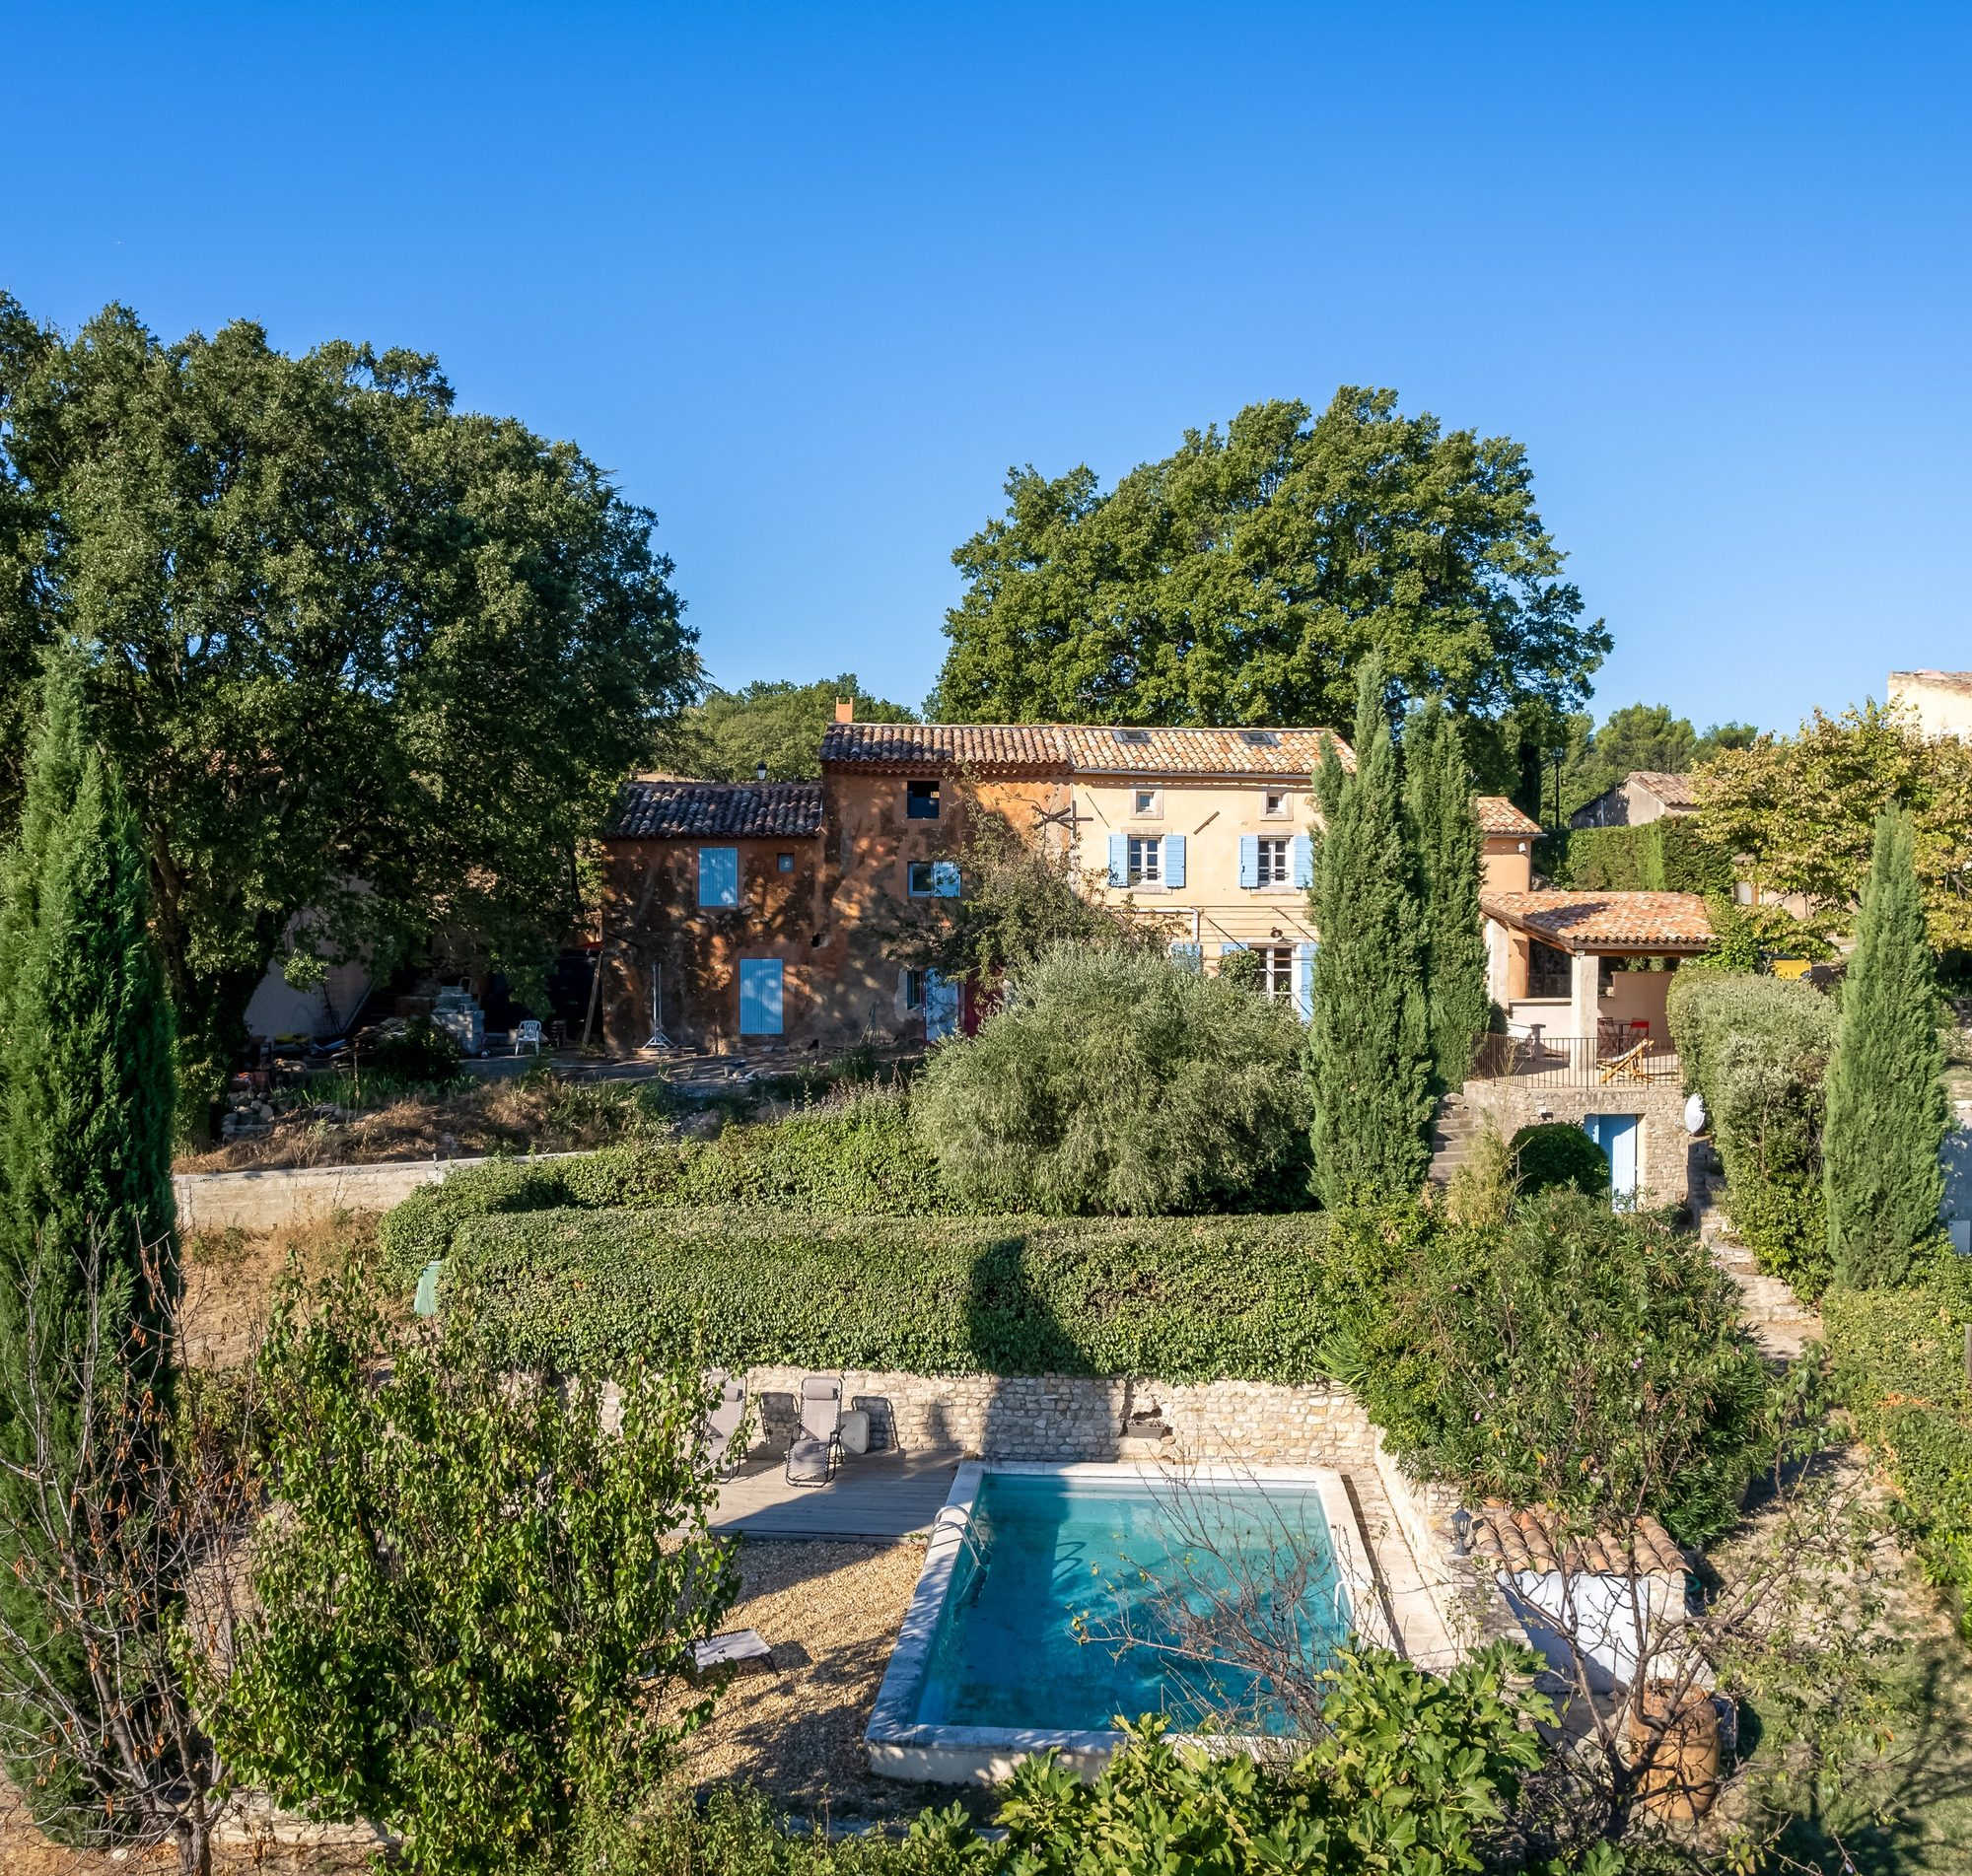
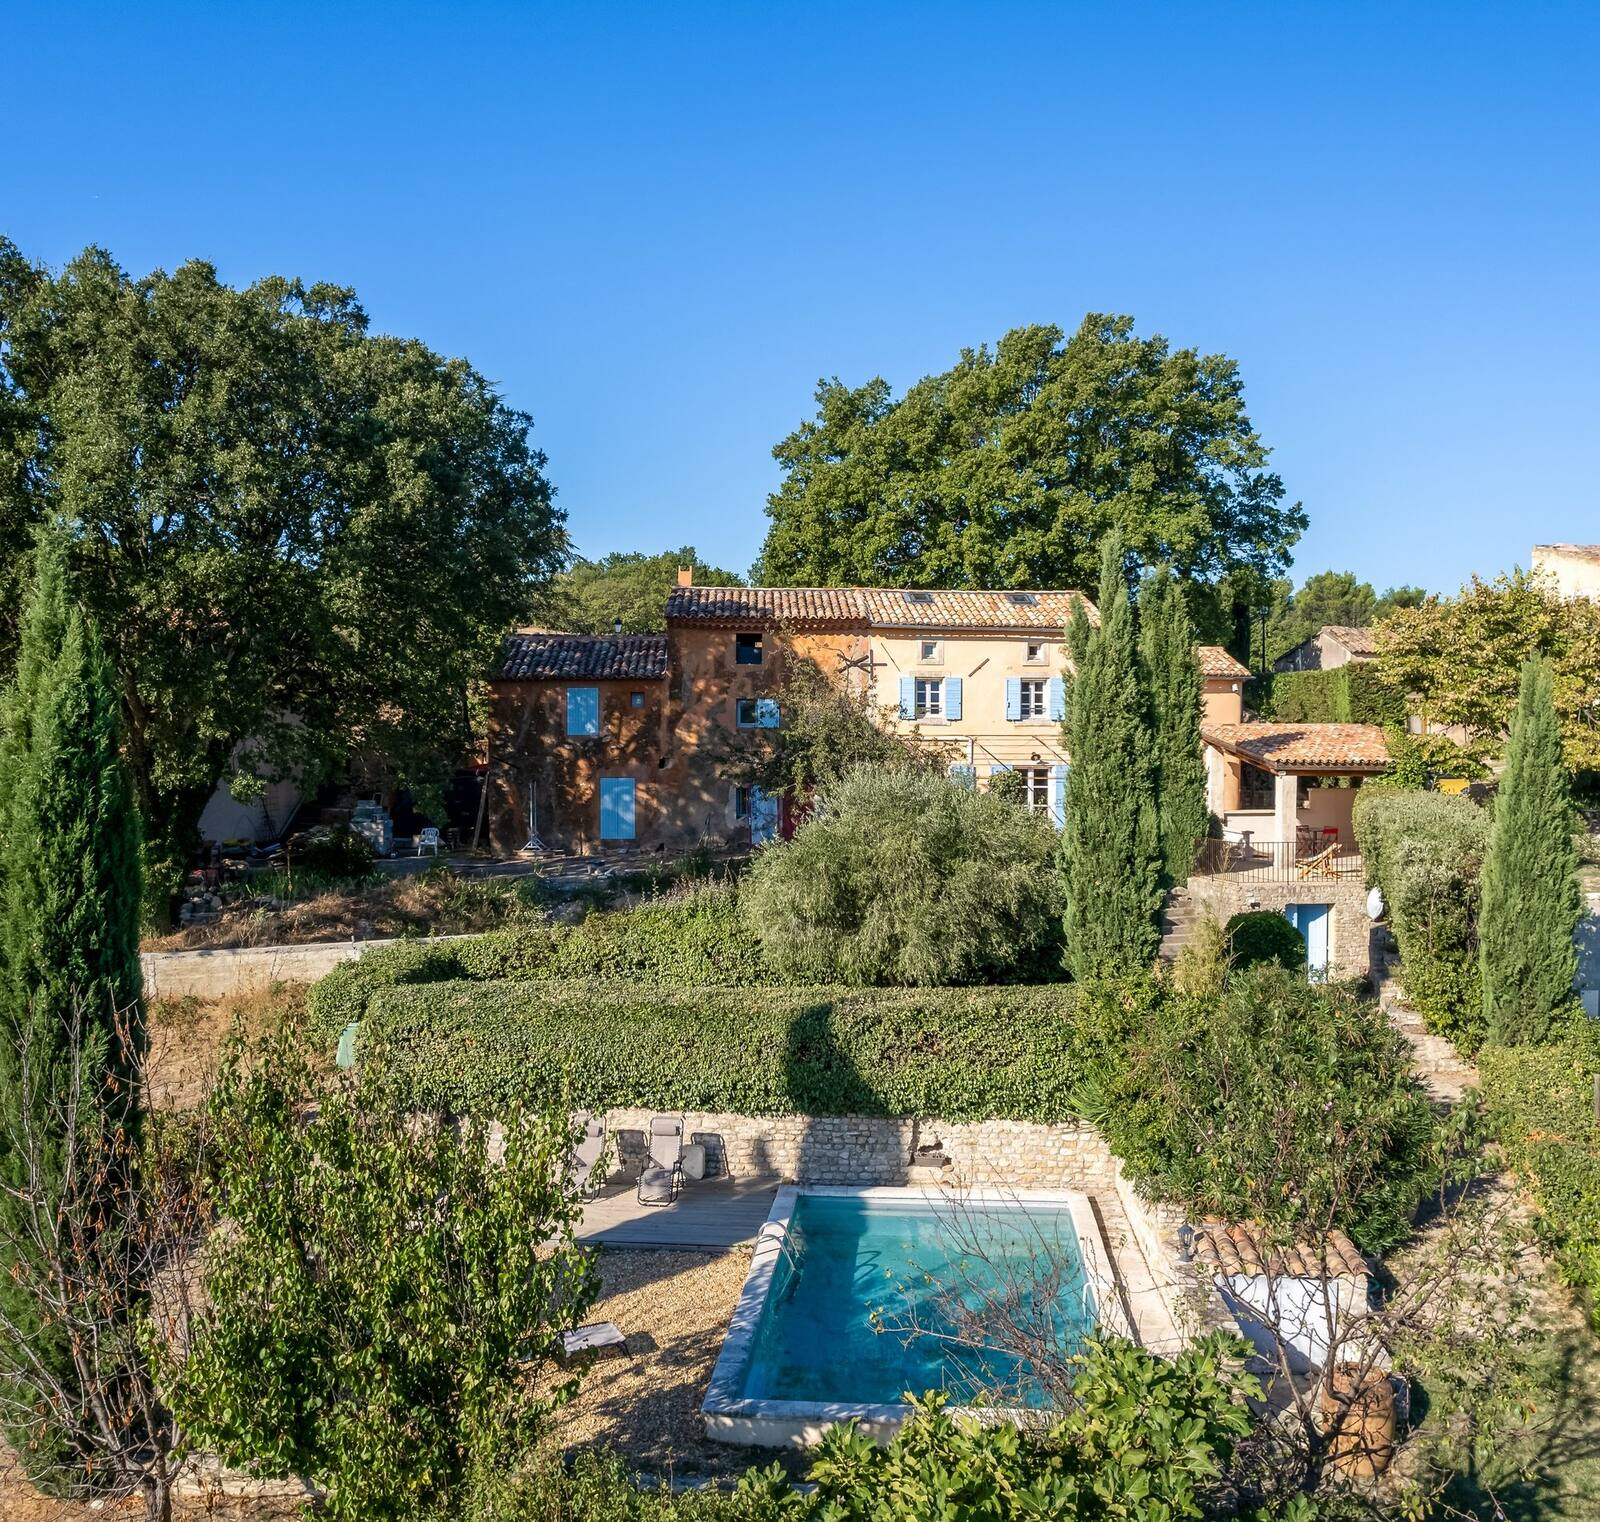
v2 : hero optimise (webp+jpg 1600px, -53%), fetchpriority, preconnect cdnfonts

diff --git a/index-v2.html b/index-v2.html
@@ -80,6 +80,7 @@
 
     <link rel="preconnect" href="https://fonts.googleapis.com">
     <link rel="preconnect" href="https://fonts.gstatic.com" crossorigin>
+    <link rel="preconnect" href="https://fonts.cdnfonts.com" crossorigin>
     <link href="https://fonts.googleapis.com/css2?family=Playfair+Display:ital,wght@0,400;0,600;1,400&family=Lato:wght@300;400;700&display=swap" rel="stylesheet">
     <link href="https://fonts.googleapis.com/css2?family=Noto+Sans+JP:wght@300;400;700&display=swap" rel="stylesheet">
     <link href="https://fonts.cdnfonts.com/css/metropolis-2" rel="stylesheet">
@@ -820,7 +821,10 @@
 
 <!-- ══ HERO ══════════════════════════════════════════════════════ -->
 <section class="hero" id="hero">
-    <img src="photos/hero-cropped.jpg" alt="Vue aérienne du Mazet des Vaines, Goult, Luberon">
+    <picture>
+        <source srcset="photos/hero-cropped.webp" type="image/webp">
+        <img src="photos/hero-cropped.jpg" alt="Vue aérienne du Mazet des Vaines, Goult, Luberon" width="1600" height="1522" fetchpriority="high">
+    </picture>
     <div class="hero-overlay">
         <span class="hero-tag" data-i18n="hero.tag">Goult · Luberon · Provence</span>
         <h1>Le Mazet<br>des Vaines</h1>
@@ -2161,6 +2165,8 @@ body{ font-family:'Metropolis','Jost',Arial,sans-serif; font-weight:300; letter-
 @media(min-width:760px){ section{ padding:112px 48px; } }
 /* hero PLEIN CADRE : photo de bord à bord, sans bande claire en haut */
 .hero{ padding:0 !important; }
+.hero picture{ display:block; position:absolute; inset:0; width:100%; height:100%; }
+.hero picture img{ width:100%; height:100%; object-fit:cover; }
 /* hero : boutons en filet blanc, espacement */
 .hero-cta{ display:flex; gap:16px; justify-content:center; flex-wrap:wrap; margin-top:36px; }
 .hero .btn{ background:transparent !important; color:#fff !important; border:1px solid rgba(255,255,255,.7) !important; padding:15px 38px; }